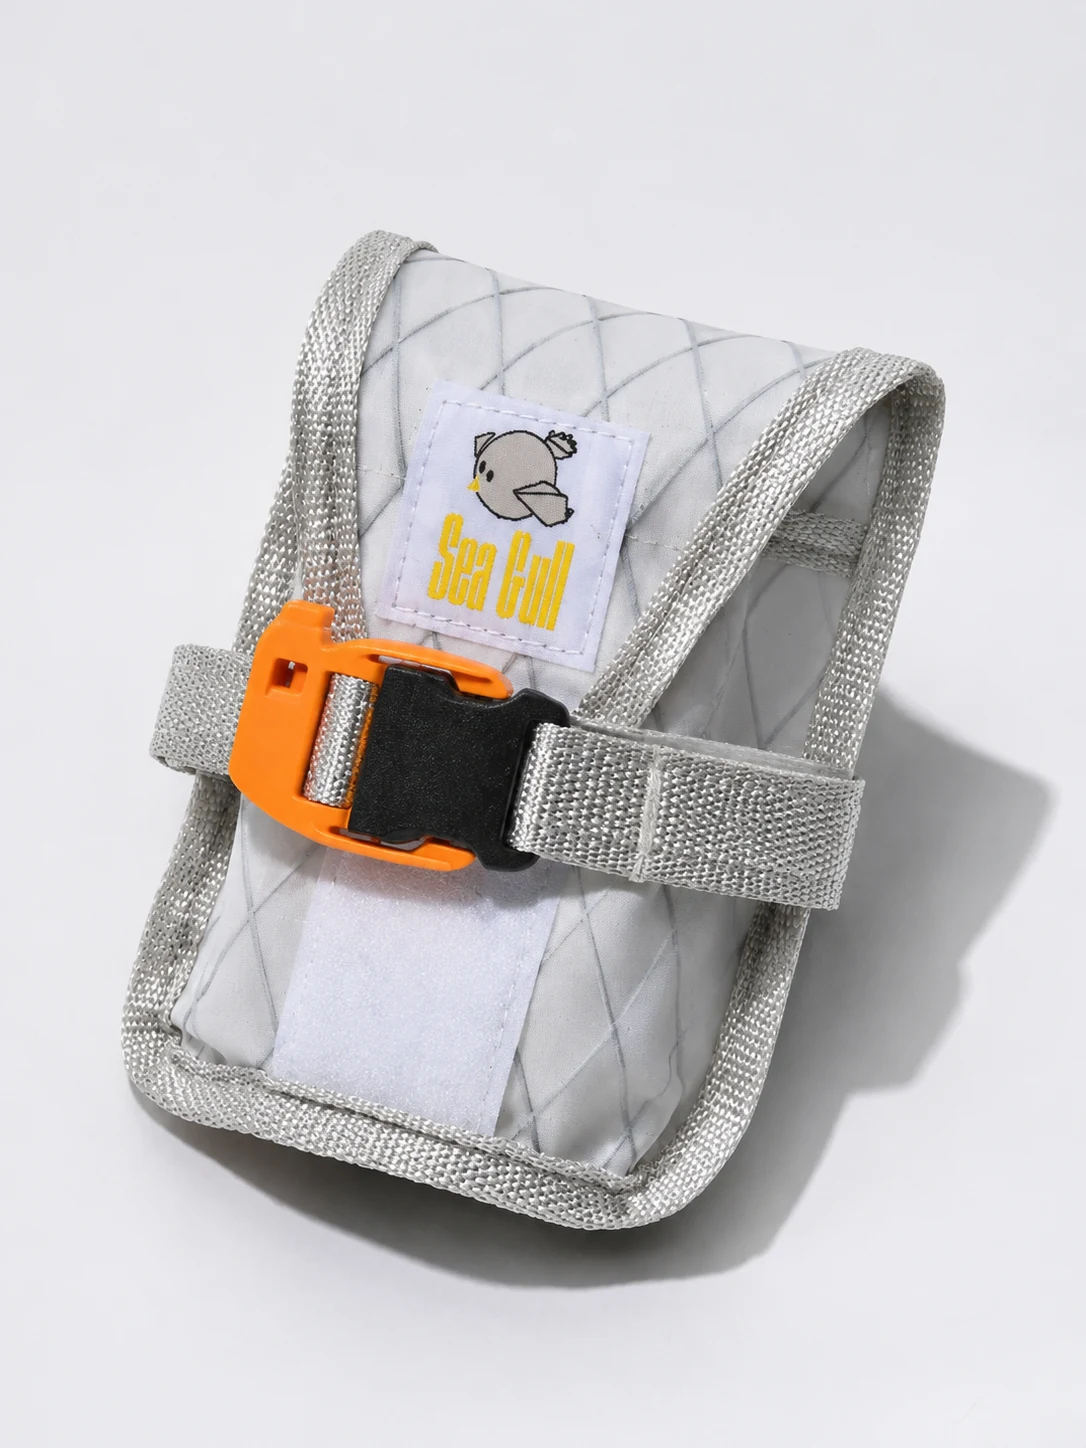
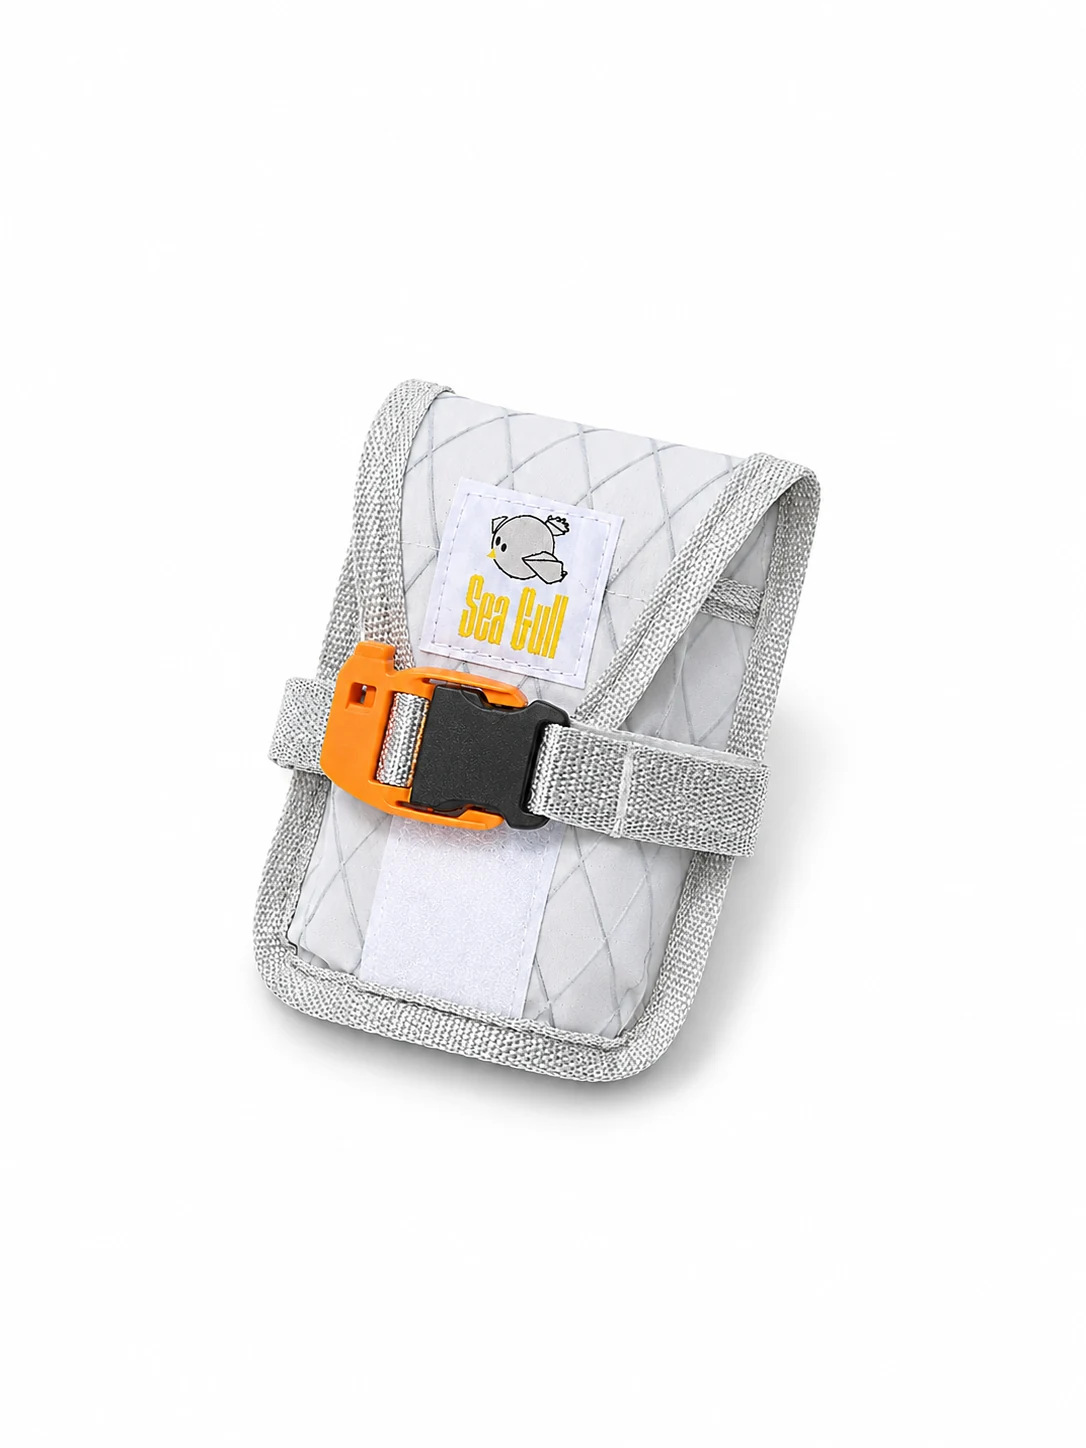
Reorder shop and unify product primary images

diff --git a/app/[locale]/[[...segments]]/page.tsx b/app/[locale]/[[...segments]]/page.tsx
@@ -137,7 +137,7 @@ function Home({ locale }: { locale: LocalizedLocale }) {
 }
 
 function ProductCards({ locale, products }: { locale: LocalizedLocale; products: typeof storefrontProducts }) {
-  return <div className="mt-8 grid gap-6 sm:grid-cols-2 lg:grid-cols-4">{products.map((raw) => { const product = localizedProduct(raw, locale); return <Link key={product.slug} href={localizedPath(`/shop/${product.slug}`, locale)} className="overflow-hidden border border-sglInk bg-sglPaper transition hover:-translate-y-1"><div className="relative aspect-[4/5] border-b border-sglInk bg-white"><Image src={product.images[0]} alt={product.title} fill sizes="25vw" className="object-contain" /></div><div className="p-5">{product.soldOut && <p className="mb-3 inline-block border border-sglInk bg-sglInk px-3 py-1 text-xs font-black uppercase tracking-wide text-sglCream">{labels[locale].soldOut}</p>}<h2 className="text-xl font-black">{product.title}</h2><p className="mt-3 text-sm leading-6 opacity-70">{product.description}</p><p className="mt-4 font-black">$ {product.priceLabel}</p></div></Link>; })}</div>;
+  return <div className="mt-8 grid gap-6 sm:grid-cols-2 lg:grid-cols-4">{products.map((raw) => { const product = localizedProduct(raw, locale); return <Link key={product.slug} href={localizedPath(`/shop/${product.slug}`, locale)} className="overflow-hidden border border-sglInk bg-sglPaper transition hover:-translate-y-1"><div className="relative aspect-[4/5] overflow-hidden border-b border-sglInk bg-[#ededeb]"><Image src={product.images[0]} alt={product.title} fill sizes="25vw" className="object-cover mix-blend-darken" /></div><div className="p-5">{product.soldOut && <p className="mb-3 inline-block border border-sglInk bg-sglInk px-3 py-1 text-xs font-black uppercase tracking-wide text-sglCream">{labels[locale].soldOut}</p>}<h2 className="text-xl font-black">{product.title}</h2><p className="mt-3 text-sm leading-6 opacity-70">{product.description}</p><p className="mt-4 font-black">$ {product.priceLabel}</p></div></Link>; })}</div>;
 }
 
 function About({ locale }: { locale: LocalizedLocale }) { const c = pageCopy[locale].about; const l = labels[locale]; const anniversaryAlt = locale === "it-IT" ? "Illustrazione del primo anniversario SGL con un ciclista e un gabbiano" : "SGL one year anniversary"; return <><Hero copy={c} /><section className="mx-auto max-w-sgl px-4 py-16 md:px-8"><h2 className="text-4xl font-black uppercase">{l.history}</h2><div className="mt-8 grid gap-4 md:grid-cols-2 lg:grid-cols-3">{timeline[locale].map(item => <article key={item.date} className="border border-sglInk bg-sglPaper p-5"><p className="font-black">{item.date}</p><p className="mt-3 leading-7">{item.text}</p></article>)}</div></section><section className="border-y border-sglInk bg-sglAcid"><div className="mx-auto grid max-w-sgl gap-8 px-4 py-16 md:grid-cols-2 md:px-8"><figure><Image src="/events/calendar/one-year-anniversary.webp" alt={anniversaryAlt} width={778} height={822} className="w-full border border-sglInk" /></figure><div className="flex items-center"><p className="text-xl leading-9">{c.intro}<br /><br />{c.secondary}</p></div></div></section></> }

diff --git a/data/products.ts b/data/products.ts
@@ -2026,11 +2026,42 @@ export function isProductReadyForStorefront(product: Product) {
   return !product.hidden && hasImage && hasPrice;
 }
 
-export const storefrontProducts = products.filter(isProductReadyForStorefront);
+const featuredStorefrontOrder = [
+  "seagull-cap-khaki-brown",
+  "seagull-cap-lavender",
+  "seagull-cap-black-grey",
+  "seagull-friends-family-cap-white-blue",
+  "sgl-three-pair-sock-set"
+];
+
+const featuredStorefrontRank = new Map(
+  featuredStorefrontOrder.map((slug, index) => [slug, index])
+);
+
+export const storefrontProducts = products
+  .filter(isProductReadyForStorefront)
+  .sort((a, b) => {
+    const aRank = featuredStorefrontRank.get(a.slug) ?? Number.MAX_SAFE_INTEGER;
+    const bRank = featuredStorefrontRank.get(b.slug) ?? Number.MAX_SAFE_INTEGER;
+    return aRank - bRank;
+  });
+
+const categoryOrder = [
+  "Bikes / Frames",
+  "Bags & Carry",
+  "Wear & Ride",
+  "Coffee & Refuel",
+  "Accessories"
+];
 
 export const categories = Array.from(
   new Set(storefrontProducts.map((product) => product.category))
-);
+).sort((a, b) => {
+  const aRank = categoryOrder.indexOf(a);
+  const bRank = categoryOrder.indexOf(b);
+  return (aRank === -1 ? Number.MAX_SAFE_INTEGER : aRank) -
+    (bRank === -1 ? Number.MAX_SAFE_INTEGER : bRank);
+});
 
 export function getProduct(slug: string) {
   return storefrontProducts.find((product) => product.slug === slug);

diff --git a/tests/products.test.ts b/tests/products.test.ts
@@ -1,6 +1,7 @@
 import { test } from "node:test";
 import assert from "node:assert/strict";
 import {
+  categories,
   getProduct,
   isProductReadyForStorefront,
   products,
@@ -13,6 +14,26 @@ test("storefront hides products without a real image or price", () => {
   assert.equal(getProduct("tote-bag-1"), undefined);
   assert.equal(getProduct("toiletry-bag"), undefined);
   assert.ok(getProduct("seat-bag"));
+});
+
+test("storefront begins with one row of caps and socks start the second row", () => {
+  assert.deepEqual(storefrontProducts.slice(0, 5).map(product => product.slug), [
+    "seagull-cap-khaki-brown",
+    "seagull-cap-lavender",
+    "seagull-cap-black-grey",
+    "seagull-friends-family-cap-white-blue",
+    "sgl-three-pair-sock-set"
+  ]);
+});
+
+test("shop category sections follow the approved order", () => {
+  assert.deepEqual(categories, [
+    "Bikes / Frames",
+    "Bags & Carry",
+    "Wear & Ride",
+    "Coffee & Refuel",
+    "Accessories"
+  ]);
 });
 
 test("placeholder-only and missing-photo products stay hidden even with a price", () => {

diff --git a/components/ProductGallery.tsx b/components/ProductGallery.tsx
@@ -20,8 +20,8 @@ export default function ProductGallery({ images, title }: { images: string[]; ti
   const photos = images.length ? images : ["/products/placeholder-bag.svg"];
   return (
     <div>
-      <div className="relative aspect-square border border-sglInk bg-sglPaper" aria-live="polite">
-        <Image src={photos[selected]} alt={`${title} — ${copy.image} ${selected + 1}`} fill priority sizes="(max-width: 768px) 100vw, 50vw" className="object-contain p-4" />
+      <div className={`relative aspect-square overflow-hidden border border-sglInk ${selected === 0 ? "bg-[#ededeb]" : "bg-sglPaper"}`} aria-live="polite">
+        <Image src={photos[selected]} alt={`${title} — ${copy.image} ${selected + 1}`} fill priority sizes="(max-width: 768px) 100vw, 50vw" className={selected === 0 ? "object-cover mix-blend-darken" : "object-contain p-4"} />
       </div>
       {photos.length > 1 && (
         <div className="mt-4 grid grid-cols-4 gap-3" aria-label={copy.images}>

diff --git a/components/ProductCard.tsx b/components/ProductCard.tsx
@@ -10,13 +10,13 @@ export default function ProductCard({ product }: { product: Product }) {
       href={`/shop/${product.slug}`}
       className="group block overflow-hidden border border-sglInk bg-sglPaper transition hover:-translate-y-1 hover:shadow-[8px_8px_0_#111111]"
     >
-      <div className="relative flex aspect-[4/5] items-center justify-center border-b border-sglInk bg-white">
+      <div className="relative flex aspect-[4/5] items-center justify-center overflow-hidden border-b border-sglInk bg-[#ededeb]">
         <Image
           src={image}
           alt={product.title}
           fill
           sizes="(max-width: 768px) 50vw, 25vw"
-          className="object-contain"
+          className="object-cover mix-blend-darken"
         />
       </div>
 
